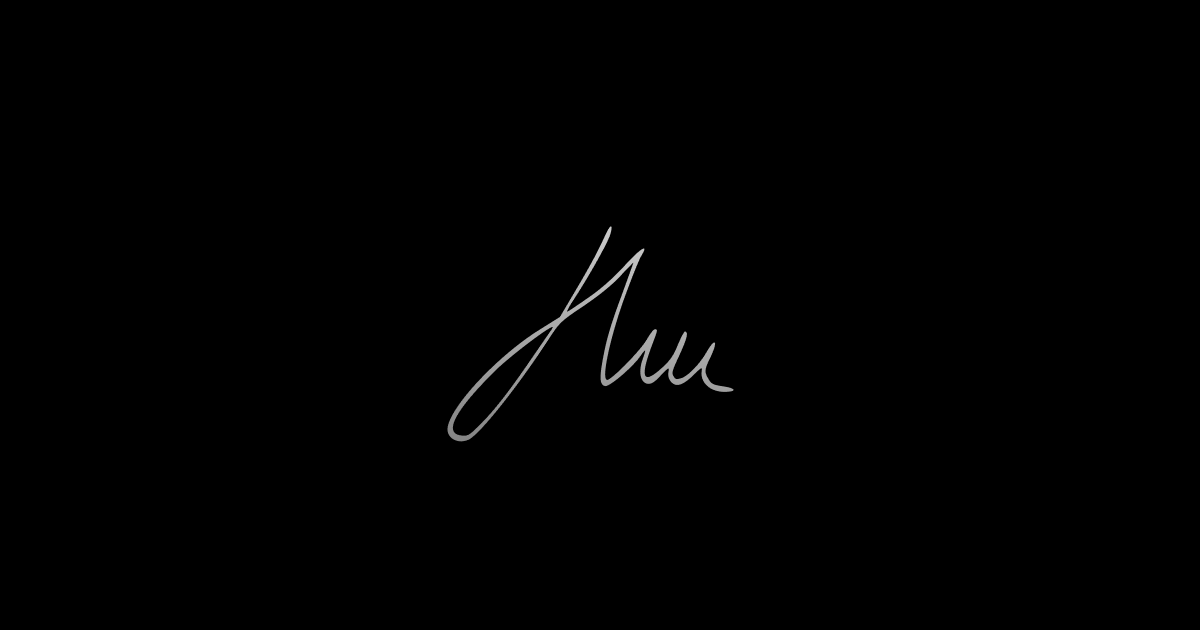
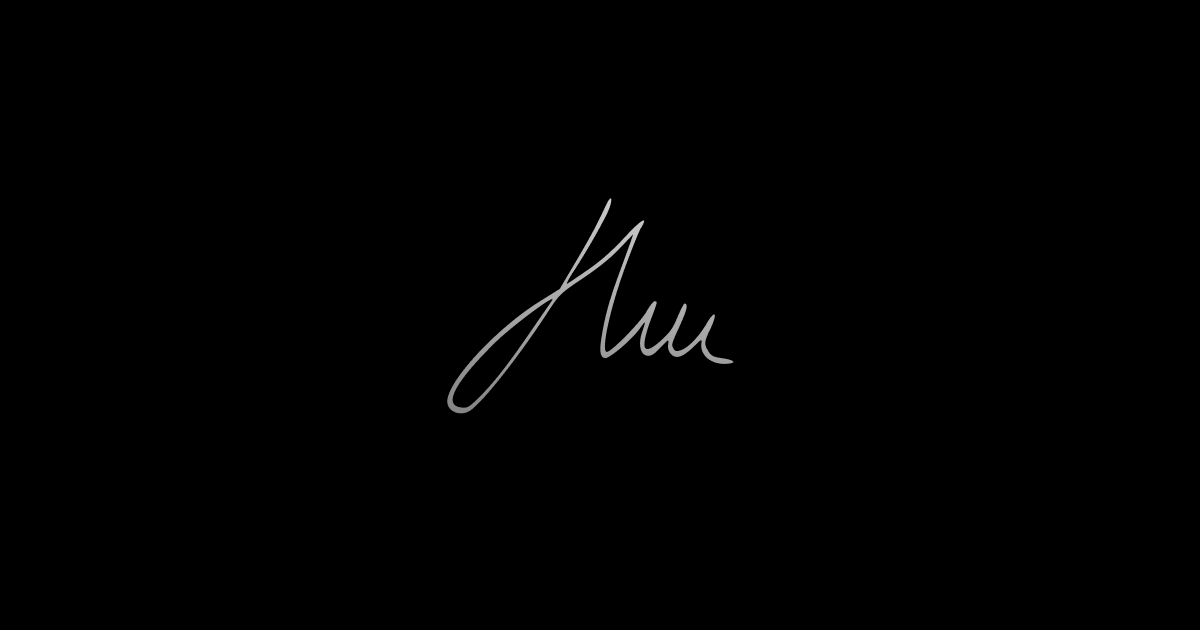
fix: updated og

Changed region(s): [[0.37, 0.3317, 0.6167, 0.7238]]

diff --git a/app/layout.tsx b/app/layout.tsx
@@ -17,6 +17,13 @@ export const metadata: Metadata = {
     title: "Jordan Liu",
     description: "just building stuff",
     images: ["/og.png"],
+    type: "website",
+  },
+  twitter: {
+    card: "summary_large_image",
+    title: "Jordan Liu",
+    description: "just building stuff",
+    images: ["/og.png"],
   },
   viewport: "width=device-width, initial-scale=1, maximum-scale=1",
 };
